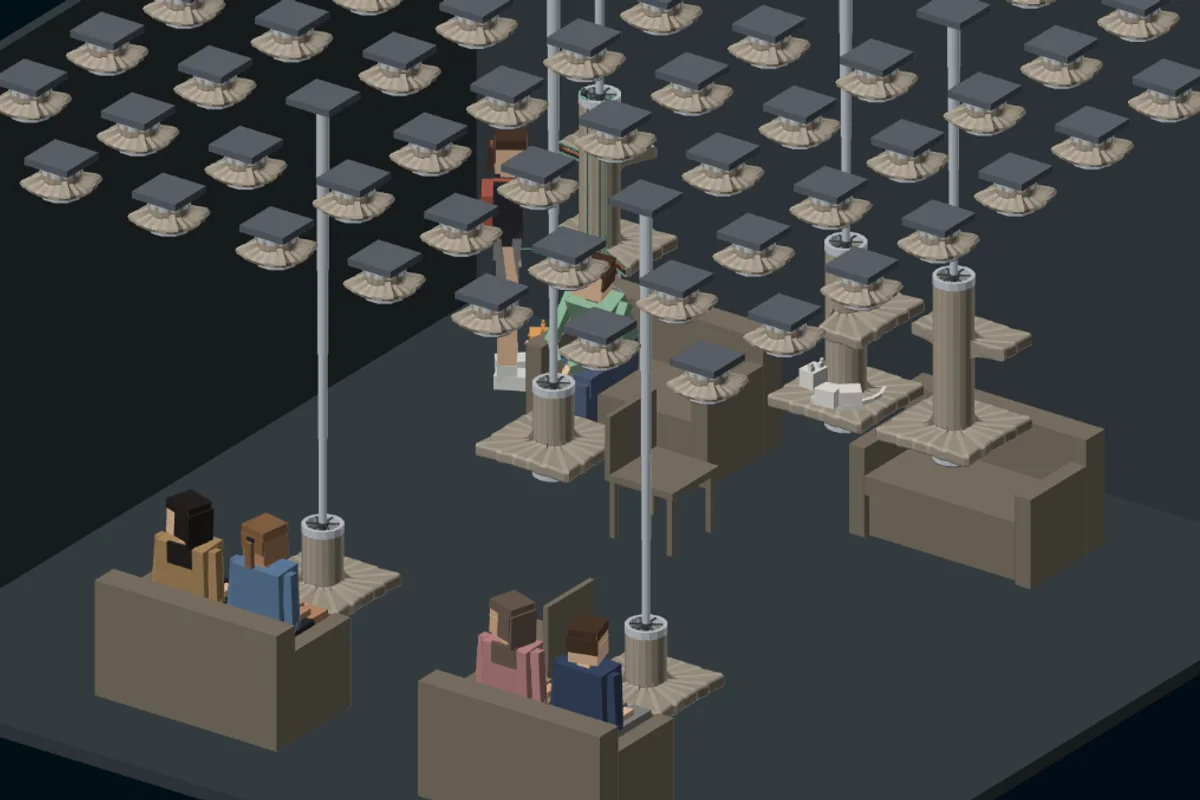
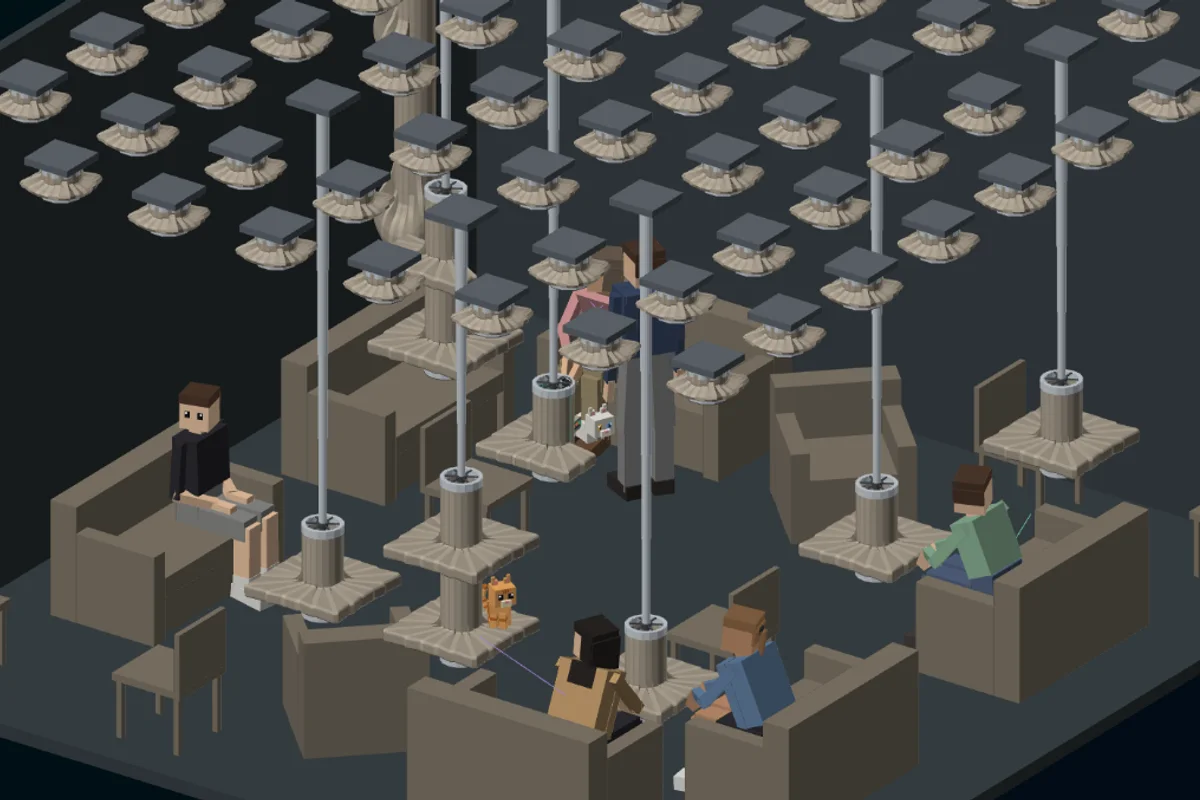
Lab 2-14 / 2-15: x40 and x60 time scales; recapture the project II cover
- Time scales gain x40 and x60 (visitors now sit 10–30 minutes). Measured
  sim cost for 6 people 4 cats: 2-15 ~5.5 ms per sim second (x60 ~0.33 s
  CPU per real second), 2-14 ~1.8 ms.
- Home cover recaptured from the current 2-15 scene (20 seats, 6 people
  4 cats, 10–30 minute sittings) at 200 s; home-cover accepts a list of
  times (COVER_T, COVER_OUT) for picking candidates.

Claude-Session: https://claude.ai/code/session_01RPazAerUYRQ9dZ99NQWedh

diff --git a/app/(site)/lab/page.tsx b/app/(site)/lab/page.tsx
@@ -446,7 +446,7 @@ export default function LabPage() {
             ['Forms', 'A unit used as a table keeps the height set by its furniture. A unit lowered for a cat takes one of three forms, drawn when it starts to come down and kept until it goes back up: a flat platform, two levels with the upper platform over half the unit, or two levels all round. Two levels means the band pays out all 338 nodes (a flat platform pays out 168 and keeps the rest on the reel in the top clamp) as two 6.5 cm platforms 0.52 m apart, with the same square outline; the lower one sits at the bottom of the band, like the flat platform. The lower platform is at 0.90 m, so a cat sitting on it has its eyes level with a seated visitor’s (site figures: about 1.17 m and 0.27 m). The top of the upper platform, 1.48 m, stays below a standing visitor’s eyes. Within 1.5 m of a seated visitor (the co-warmth band) the draw favours the half-roofed form, open toward that visitor: 60% half-roofed, 15% all round, 25% flat. Elsewhere the odds are 20%, 10% and 70%, and the roofed half lies along one of the four sides. The cat sits under the roofed half and looks toward the open side. A unit over a dining chair (back 0.85 m) stays flat. The draw uses the run’s seed, the unit and how many times it has come down, so the same seed gives the same room. The odds are demonstration values. Only the 3D view changes: the plan model is untouched and the counts are those of flat platforms'],
             ['Furniture', 'Sizes from ergonomic references: two-seat sofa 1.40 × 0.80 m, seat 0.43 m high and 0.60 m deep, arms 0.12 m wide and 0.62 m high, back 0.80 m; dining chair 0.50 × 0.52 m, seat 0.45 m high and 0.42 m deep, back 0.85 m; armchair 0.80 × 0.80 m, made like the sofa (seat 0.43 m, 0.56 m between the arms); any piece can stand at any angle'],
             ['Pace', 'Visitors stand still 3–12 s, go to sit at about one stop in three and then sit 10–30 minutes; watching a cat still takes 10–30 s. No study measures how long cat café visitors sit; cafés sell 30–60 minute slots and many visitors book one to two hours, so one visit holds two or three sittings. The case study comparison and the case buttons keep 8–45 s, one stop in two and 90–240 s'],
-            ['Time', '×1 / ×8 / ×10 / ×20 playback; the simulation is stepped in 0.05 s pieces, so faster playback runs the same rules'],
+            ['Time', '×1 / ×8 / ×10 / ×20 / ×40 / ×60 playback; the simulation is stepped in 0.05 s pieces, so faster playback runs the same rules'],
             ['Driver', 'CohabitSim with the case study configuration and square units (the case study chart was run with round units): walk / stand / sit rule · only the bands in the way retract · visitors with bodies and parties · cats can use the floor · cat costs calibrated to Mertens & Turner 1988 · lead to the unit in front of the seat'],
             ['Band shapes', 'Three engine runs for the flat platform (face, edge and corner depth) and six for the two-level form (the three depths, with and without the upper platform; baked in a background thread once the simulation is running, and until then those units come down flat), each baked to 48 forming, 36 retraction and 24 giving-way keyframes; each band picks its frame from its unit’s degree and how far it has retracted. Switching from forming to retraction frames can show a small jump. A band giving way to a person follows the engine’s own straightening retraction from its formed shape and ends flat on the post; its spare cloth is taken up into the top clamp, so all twenty bands of a unit stay attached at the same top and bottom. A semi-transparent membrane spans each pair of neighbouring bands. The padding of each band sits above the box, so below the formed platform only about 0.16 m of band runs down to the bottom end (0.29 m with the padding split above and below the box)'],
             ['Mechanism', 'A modelling assumption read from the Blender model, still to be confirmed: a top clamp ring holds the first 5 nodes of all twenty bands, with a take-up reel for each band holding the cloth the platform does not use, and hangs from the ceiling on a five-stage telescopic aluminium hanger (84 mm across at the top, 52 mm at the bottom); a bottom clamp ring holds the last 5 nodes, with a rubber bumper ring underneath; a four-stage telescopic core joins the hubs of the two clamp rings, so as the unit forms the hanger lengthens by as much as the core shortens. Each bond is two pads on the cloth with a locking strut between them, drawn orange once it is fastened (the colour of the bond lines in the other labs). The motor box above the ceiling is not drawn'],

diff --git a/src/lib/site/lab-page-copy.ts b/src/lib/site/lab-page-copy.ts
@@ -283,7 +283,7 @@ export const LAB_PAGE_COPY: readonly (readonly [string, string])[] = [
   ["Pace", "节奏"],
   ["Visitors stand still 3–12 s, go to sit at about one stop in three and then sit 10–30 minutes; watching a cat still takes 10–30 s. No study measures how long cat café visitors sit; cafés sell 30–60 minute slots and many visitors book one to two hours, so one visit holds two or three sittings. The case study comparison and the case buttons keep 8–45 s, one stop in two and 90–240 s", "访客原地站 3–12 秒，下一站约三次里有一次去坐，一坐 10–30 分钟；看猫仍站 10–30 秒。没有研究量过猫咖访客一次坐多久，店家一般按 30–60 分钟计时，也常有人订 1–2 小时，所以一次到访坐两三回。案例页对照图与正文对照四钮仍用 8–45 秒、一半去坐、90–240 秒"],
   ["Time", "时间"],
-  ["×1 / ×8 / ×10 / ×20 playback; the simulation is stepped in 0.05 s pieces, so faster playback runs the same rules", "×1 / ×8 / ×10 / ×20 倍速播放；仿真按 0.05 秒一段推进，快放跑的是同一套规则"],
+  ["×1 / ×8 / ×10 / ×20 / ×40 / ×60 playback; the simulation is stepped in 0.05 s pieces, so faster playback runs the same rules", "×1 / ×8 / ×10 / ×20 / ×40 / ×60 倍速播放；仿真按 0.05 秒一段推进，快放跑的是同一套规则"],
   ["Tables", "桌子"],
   ["Forms", "形态"],
   ["A unit used as a table keeps the height set by its furniture. A unit lowered for a cat takes one of three forms, drawn when it starts to come down and kept until it goes back up: a flat platform, two levels with the upper platform over half the unit, or two levels all round. Two levels means the band pays out all 338 nodes (a flat platform pays out 168 and keeps the rest on the reel in the top clamp) as two 6.5 cm platforms 0.52 m apart, with the same square outline; the lower one sits at the bottom of the band, like the flat platform. The lower platform is at 0.90 m, so a cat sitting on it has its eyes level with a seated visitor’s (site figures: about 1.17 m and 0.27 m). The top of the upper platform, 1.48 m, stays below a standing visitor’s eyes. Within 1.5 m of a seated visitor (the co-warmth band) the draw favours the half-roofed form, open toward that visitor: 60% half-roofed, 15% all round, 25% flat. Elsewhere the odds are 20%, 10% and 70%, and the roofed half lies along one of the four sides. The cat sits under the roofed half and looks toward the open side. A unit over a dining chair (back 0.85 m) stays flat. The draw uses the run’s seed, the unit and how many times it has come down, so the same seed gives the same room. The odds are demonstration values. Only the 3D view changes: the plan model is untouched and the counts are those of flat platforms", "当桌子的那台照家具定高。给猫落的那台在三种形里抽一种：平台、半圈有顶的两层、整圈两层，开始落下时抽，收回天花之前不换。两层是 338 节布全部铺出去（平台只铺出去 168 节，余下的卷在上夹环里），成两块 6.5 cm 的方台，相隔 0.52 m，俯视仍是那只方台，下台与平台一样贴着带子底端。下台 0.90 m，猫坐在上面，眼睛与坐着的人齐平（站上比例模型：约 1.17 m 与 0.27 m）。上台顶 1.48 m，比站着的人的眼睛低。落在一位坐着的访客身边 1.5 m 以内（共温带）的台，多半抽中半圈有顶的，敞开那半圈朝那个人：半圈有顶 60%、整圈两层 15%、平台 25%。别处是 20%、10%、70%，有顶的半圈沿方台四条边之一。猫坐在有顶的那半边，头朝敞开的一侧。压在餐椅上方的不成两层（椅背 0.85 m）。抽签按这一场的种子、第几台、这台第几次落下，同一个种子每次一样。几率是演示值。只改了立体：平面模型一行没动，读数仍是只有平台时的读数"],

diff --git a/components/lab/CohabitSpaceBench.tsx b/components/lab/CohabitSpaceBench.tsx
@@ -165,8 +165,10 @@ const LINK_COLOR: Record<EventKind, [number, number, number]> = {
 /** 仿真单帧封顶（与 Lab 2-14 台架同）：切后台回来不炸 */
 const MAX_SIM_DT = 0.05;
 /** 时间倍速（2026-10-27 作者「立体模拟也加上时间倍数，比如 8 倍、10 倍、20 倍」）：每帧的仿真时长 = 实际帧长（封顶 MAX_SIM_DT）× 倍速，
- *  按 MAX_SIM_DT 一段一段推（×1 时就是原来那一次调用，逐位不变）。仿真每秒约 8 ms，×20 时每秒真实时间约 0.16 s 的 CPU */
-const TIME_SCALES = [1, 8, 10, 20] as const;
+ *  按 MAX_SIM_DT 一段一段推（×1 时就是原来那一次调用，逐位不变）。
+ *  2026-11-08 加 ×40 / ×60（作者「加更高的时间倍数档」：访客一坐 10–30 分钟，×20 下坐一回也要 30–90 s）。
+ *  实测 6 人 4 猫每仿真秒约 5.5 ms ⇒ ×60 时每秒真实时间约 0.33 s 的 CPU */
+const TIME_SCALES = [1, 8, 10, 20, 40, 60] as const;
 const TIME_DEF = 1;
 /** 烘轨迹时每帧给的主线程预算（ms） */
 const BAKE_BUDGET_MS = 12;

diff --git a/components/lab/CohabitBench.tsx b/components/lab/CohabitBench.tsx
@@ -21,7 +21,8 @@ import { useBenchLoop } from './useBenchLoop';
  * 规则两档（2026-10-07 作者「座位做据点，人分走 / 站 / 坐三种状态」+「先以 8×8 设计，座位摆在空间中间」）：
  * 「走 · 站 · 坐」（默认，8×8，标准布置）= 走着不触发、站定看猫给一步、坐着一步步把猫引到座位前方那台；痕迹（旧）= 上一版口径，留作对照。
  */
-const TIME_SCALES = [1, 3, 8, 10, 20] as const;
+/** 2026-11-08 加 ×40 / ×60（访客一坐 10–30 分钟）；这台按 0.404 s 一段推，6 人 4 猫每仿真秒约 1.8 ms */
+const TIME_SCALES = [1, 3, 8, 10, 20, 40, 60] as const;
 const TIME_DEF = 1;
 /** 一次 sim.step 最多推这么多（×8 一帧一次）；×10 / ×20 拆成几段推，空间层每段都走一次 */
 const MAX_SIM_DT = 0.05 * 8 * 1.01;
